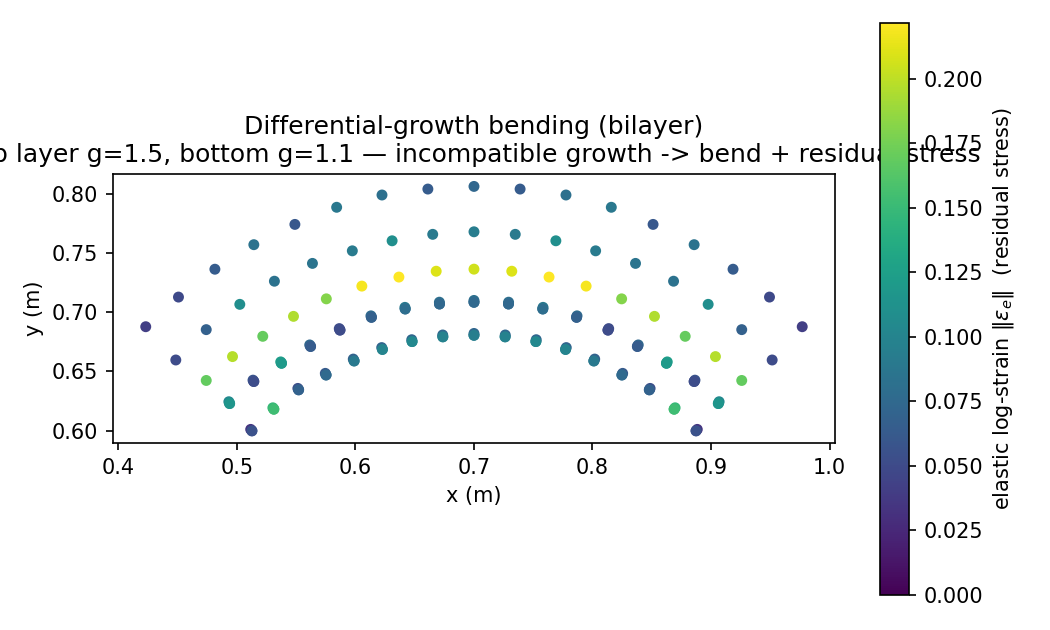
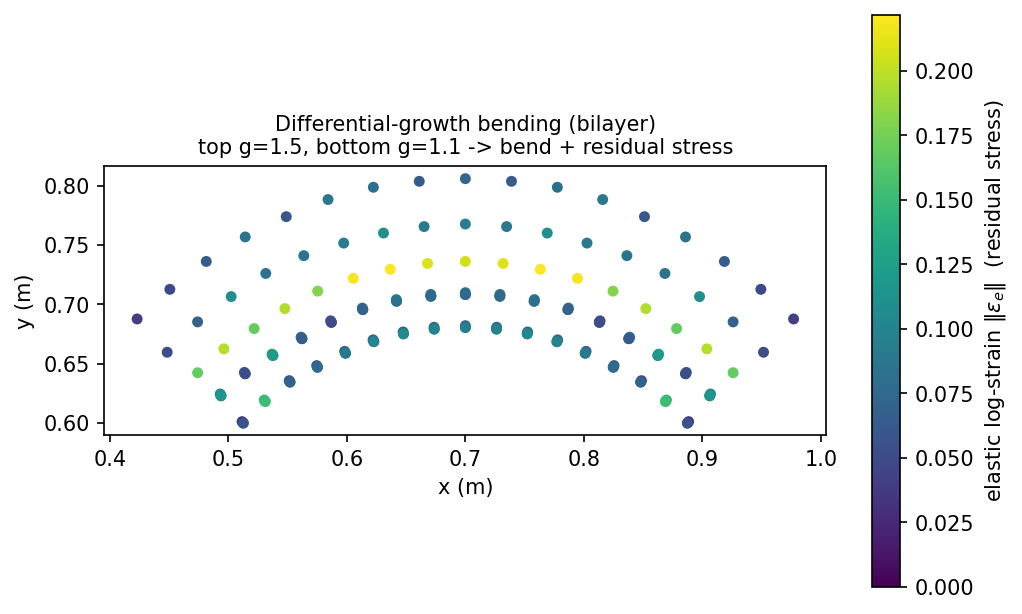
@ Fix clipped/overlapping figure titles
Long titles overflowed the axes and were clipped at the canvas edge; the
scatter subtitle collided with the colorbar. Shorten titles, set explicit
title fontsize, and save with bbox_inches="tight" so the full title and the
outside legend are always included. Regenerated all result figures.

@

diff --git a/scripts/results.py b/scripts/results.py
@@ -44,9 +44,10 @@ def fig_inverse():
     ax.plot(its, hist, "o-", label="g estimate (Gauss-Newton)")
     ax.axhline(g_true, ls="--", color="crimson", label=f"g_true = {g_true}")
     ax.set_xlabel("iteration"); ax.set_ylabel("recovered growth rate g")
-    ax.set_title("Differentiable inverse: recover growth rate from observed shape")
+    ax.set_title("Differentiable inverse: recover growth rate from shape", fontsize=11)
     ax.legend(bbox_to_anchor=(1.01, 1), loc="upper left")
-    fig.tight_layout(); fig.savefig(os.path.join(FIG, "inverse_recovery.png"), dpi=150)
+    fig.tight_layout()
+    fig.savefig(os.path.join(FIG, "inverse_recovery.png"), dpi=150, bbox_inches="tight")
     _desc("inverse_recovery",
           "Gradient-based recovery of the growth rate g from an observed final shape "
           "(Σ det F), via the differentiable trajectory adjoint — the novel capability.",
@@ -71,10 +72,12 @@ def fig_bending():
                 arrowprops=dict(arrowstyle="->", color="#9C5A12"))
     ax.set_xlabel("growth mismatch  ε = g_top − g_bot")
     ax.set_ylabel("bending curvature κ (1/m)")
-    ax.set_title("Morphogenesis validation: bilayer bending vs Timoshenko\n"
-                 "(linear scaling ✓; offset is relaxation-convergence, not physics)")
+    ax.set_title("Bilayer bending vs Timoshenko\n"
+                 "(linear scaling OK; offset is relaxation-convergence, not physics)",
+                 fontsize=10)
     ax.legend(bbox_to_anchor=(1.01, 1), loc="upper left")
-    fig.tight_layout(); fig.savefig(os.path.join(FIG, "bending_timoshenko.png"), dpi=150)
+    fig.tight_layout()
+    fig.savefig(os.path.join(FIG, "bending_timoshenko.png"), dpi=150, bbox_inches="tight")
     _desc("bending_timoshenko",
           "Differential-growth bilayer bending curvature vs the independent Timoshenko "
           "bimetal-strip analytic (κ=1.5ε/h). Forward-physics validation in the "

diff --git a/scripts/plot_growth.py b/scripts/plot_growth.py
@@ -37,10 +37,10 @@ cb.set_label(r"elastic log-strain $\|\varepsilon_e\|$  (residual stress)")
 ax.set_xlabel("x (m)")
 ax.set_ylabel("y (m)")
 ax.set_title("Differential-growth bending (bilayer)\n"
-             "top layer g=1.5, bottom g=1.1 — incompatible growth -> bend + residual stress")
+             "top g=1.5, bottom g=1.1 -> bend + residual stress", fontsize=10)
 ax.set_aspect("equal")
 fig.tight_layout()
-fig.savefig(PNG, dpi=150)
+fig.savefig(PNG, dpi=150, bbox_inches="tight")
 print("wrote", PNG)
 
 with open(DESC, "w", encoding="utf-8") as f: